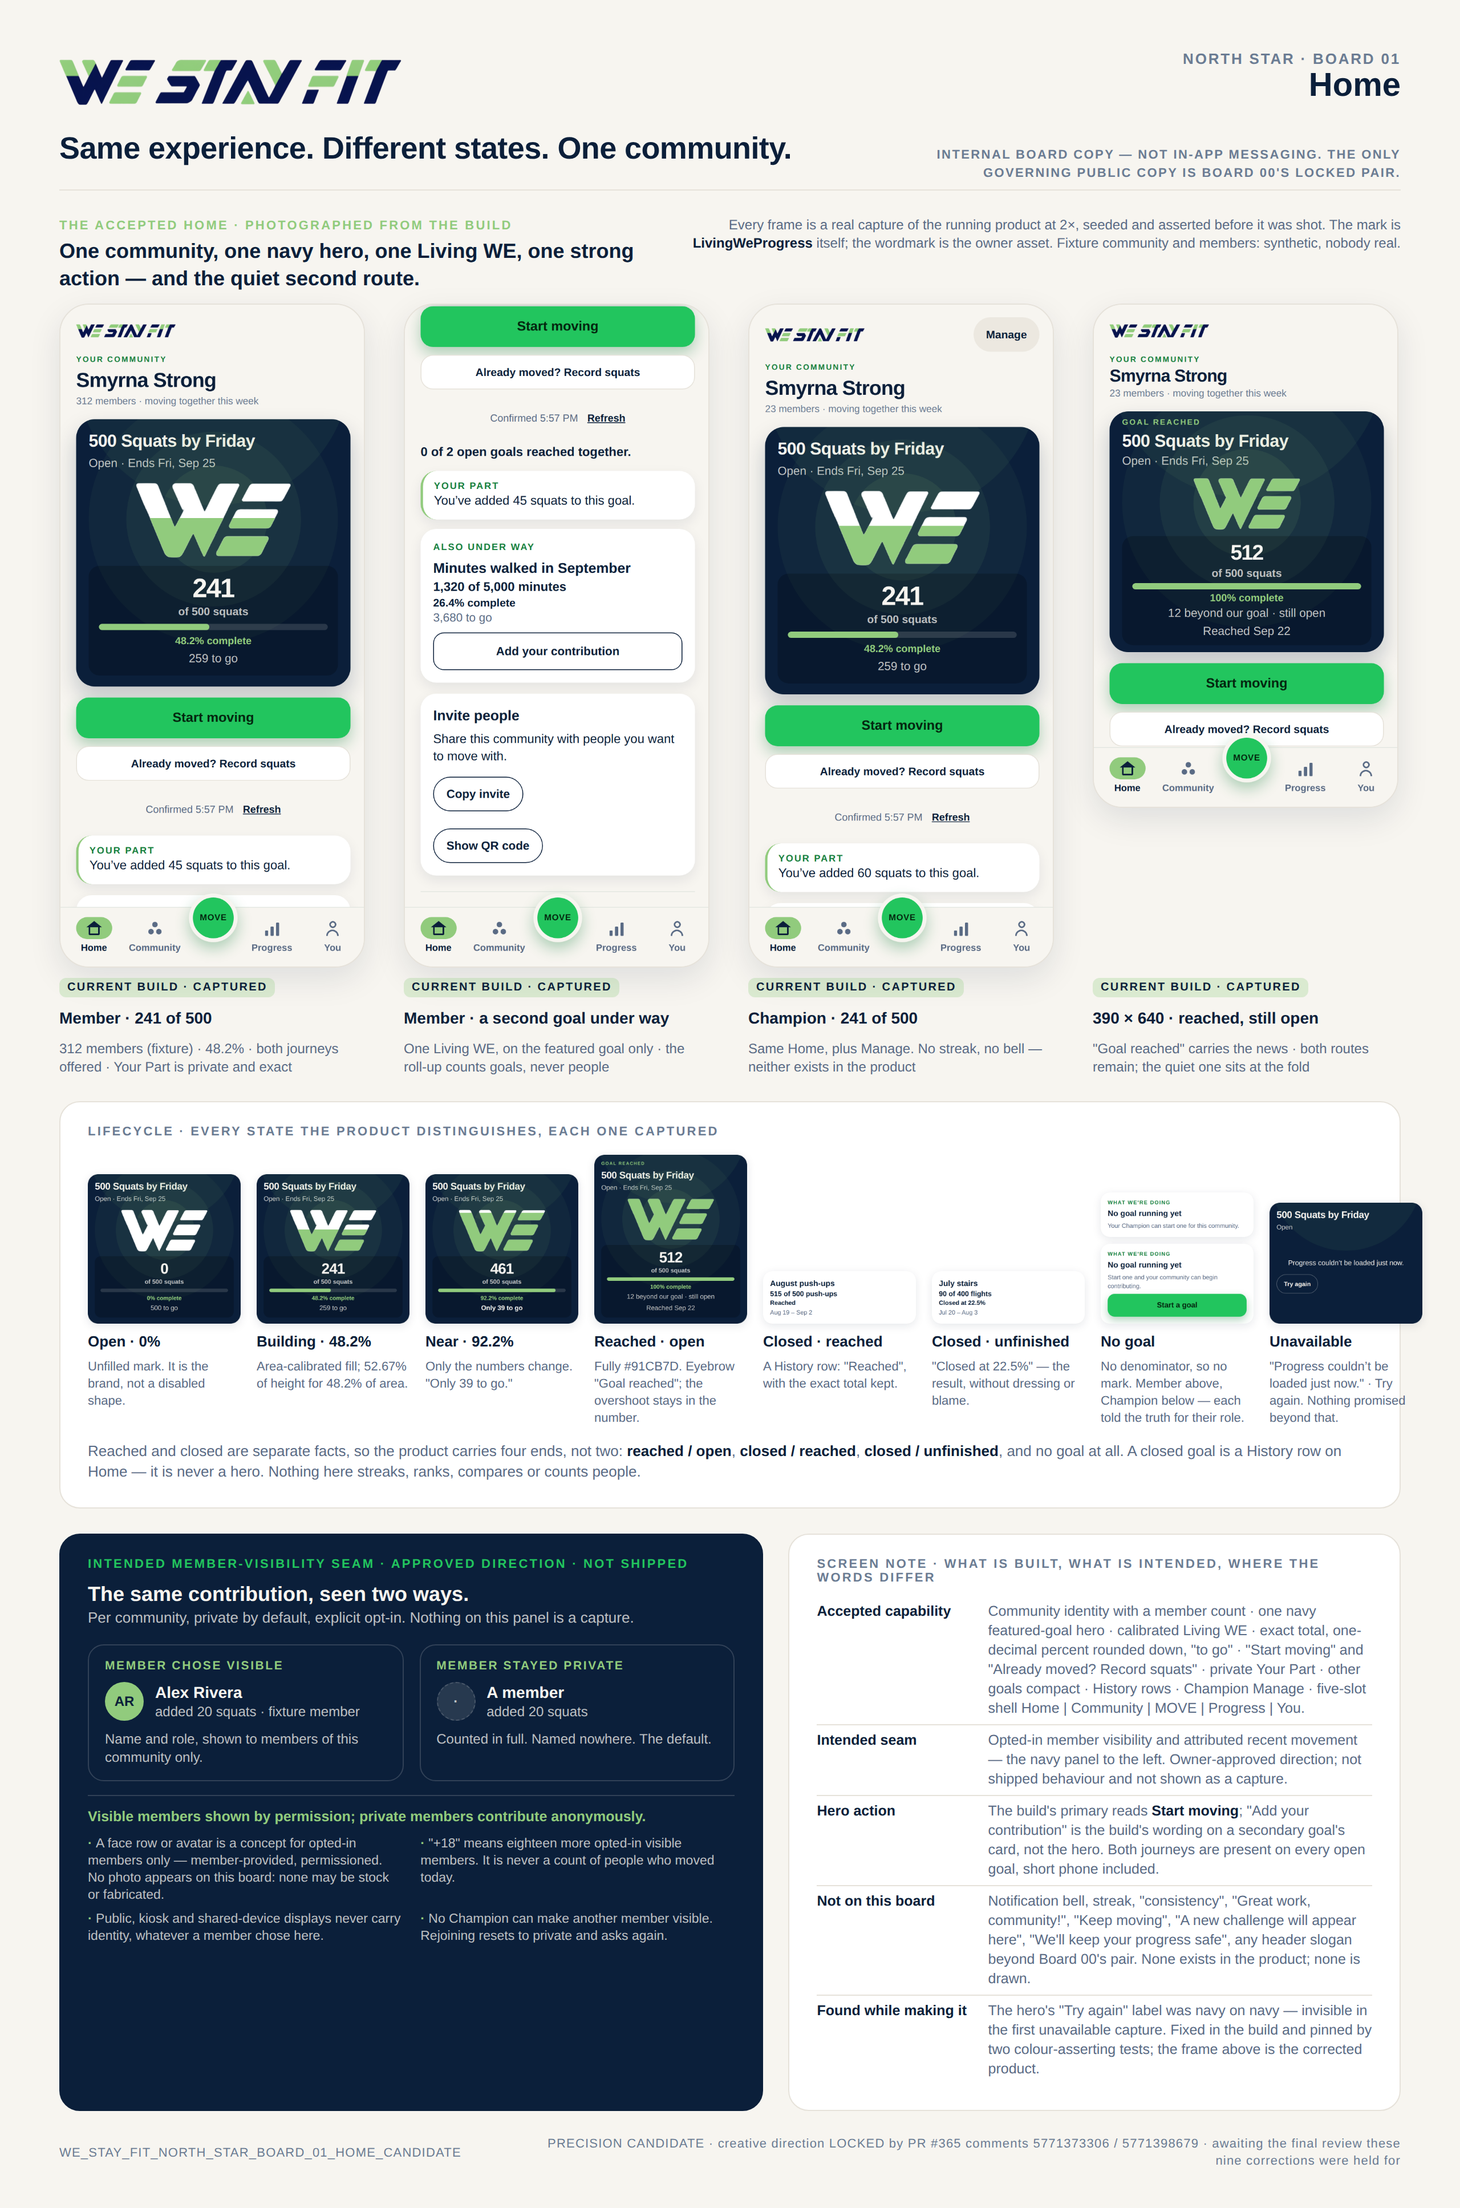
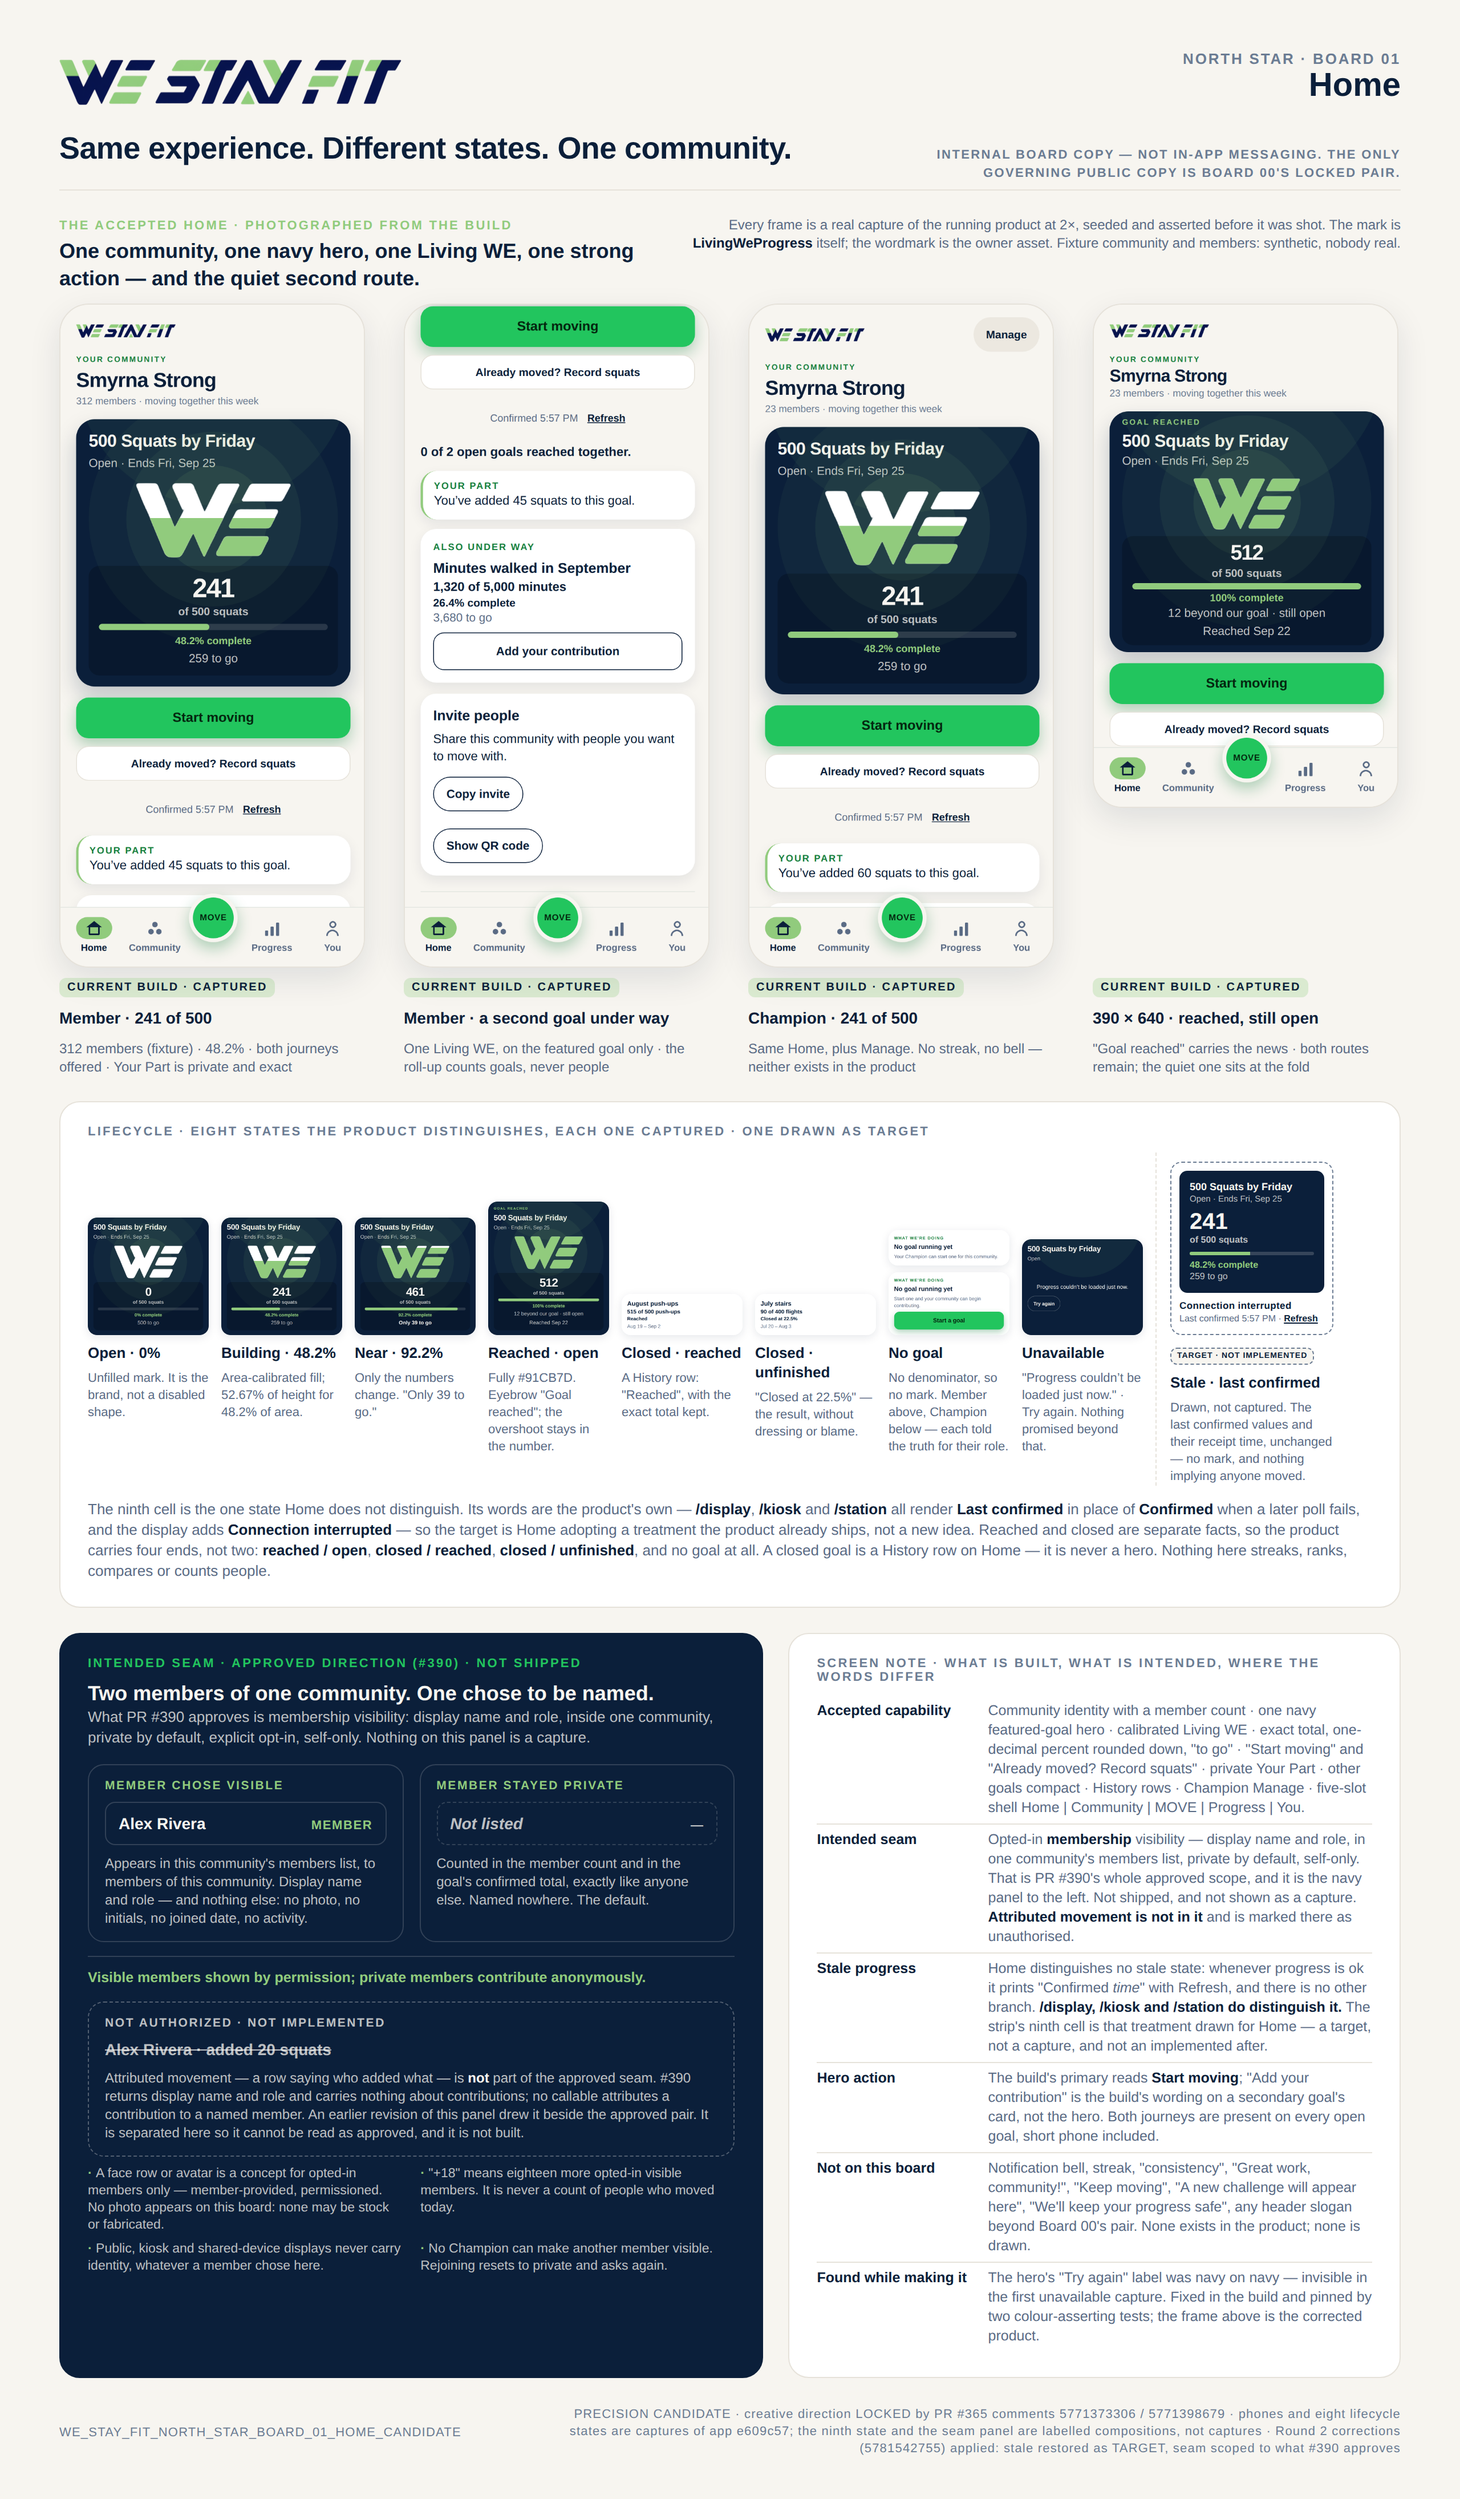
docs(westayfit): Board 01 — the stale state drawn as a target, and the seam scoped to what #390 actually approves
The two corrections the Round 2 source-level check named, and nothing else.
No capture was retaken and no product capture was altered: the four phones
and the eight captured lifecycle states are the same PNGs, still labelled
CURRENT BUILD · CAPTURED.

STALE. The candidate had dropped "stale / last confirmed" on the grounds that
Home does not distinguish it. Current capability cannot erase intended
coverage, so the strip gains a ninth cell — drawn, dashed, tagged TARGET ·
NOT IMPLEMENTED — carrying the building state's own confirmed values
unchanged (241 of 500, 48.2% complete, 259 to go) under "Connection
interrupted · Last confirmed 5:57 PM · Refresh". Nothing on it implies a
movement event; only the screen's standing changed.

It is drawn rather than recorded as an unresolved seam because the product
already ships this treatment, just not on Home: /display, /kiosk and /station
each render `stale ? 'Last confirmed' : 'Confirmed'`, and the display adds
"Connection interrupted". Home's renderFreshness has no such branch. So the
cell invents no vocabulary and no behaviour. It carries no Living WE — a mark
on this board has to be real calibrated LivingWeProgress output, and a
composition has none.

SEAM SEMANTICS. PR #390 returns display name and role for the visible members
of one community and carries nothing about contributions. The panel's
"Alex Rivera · added 20 squats" presented attributed movement as part of that
[…]

diff --git a/docs/design-target/north-star-final/board-01/README.md b/docs/design-target/north-star-final/board-01/README.md
@@ -2,7 +2,7 @@
 
 **Status: PRECISION REVIEW.** Creative direction and the privacy/visibility concept were **accepted** by PR #365 comments [`5771373306`](https://github.com/idevinsimpson/goarrive/pull/365#issuecomment-5771373306) (revision 6) and [`5771398679`](https://github.com/idevinsimpson/goarrive/pull/365#issuecomment-5771398679) (revision 7), which held the board for nine truth/precision corrections and said *"Do not conceptually redesign Board 01 again."* This is the precision candidate those corrections asked for. It takes the `_FINAL` name only when that review clears it.
 
-`WE_STAY_FIT_NORTH_STAR_BOARD_01_HOME_CANDIDATE.png` · 2560×3870 (1280×1935 @2x)
+`WE_STAY_FIT_NORTH_STAR_BOARD_01_HOME_CANDIDATE.png` · 2560×4380 (1280×2190 @2x)
 
 ## How it was made — captured, not drawn
 
@@ -29,10 +29,37 @@ node scripts/westayfit/north-star/render-board.mjs \
 | 3 | Remove "We'll keep your progress safe." | The unavailable frame is the product's: *"Progress couldn't be loaded just now."* and **Try again**. Nothing else. |
 | 4 | Remove "A new challenge will appear here." | The no-goal frames are the product's, member and Champion: *"No goal running yet"* with *"Your Champion can start one for this community."* / *"Start one and your community can begin contributing."* |
 | 5 | Screen note must separate accepted capability from the intended seam | The SCREEN NOTE panel has one row for each, plus a row for where the build's words differ from the lock's. |
-| 6 | Photos are permissioned concept only, never stock or fabricated; +18 = opted-in visible members, not movers | Stated on the seam panel. **No photo appears anywhere on the board.** The visible example uses initials on a fixture member. |
+| 6 | Photos are permissioned concept only, never stock or fabricated; +18 = opted-in visible members, not movers | Stated on the seam panel. **No photo appears anywhere on the board.** The visible example is a name-and-role row with no image of any kind — correction 11 took the initials disc off it too, because #390's own members screen draws neither avatar nor initials. |
 | 7 | Remove "Consistency — Showing up together." | Absent. The Champion frame's quiet context is a member count and the goal's status — both real. |
 | 8 | Primary CTA must keep both journeys, short phone included | Every open-goal frame carries **Start moving** and **Already moved? Record squats**; the 390×640 frame shows the quiet route at the fold. |
 | 9 | "Same experience. Different states. One community." is internal board copy | Rendered as the lead with the label INTERNAL BOARD COPY — NOT IN-APP MESSAGING; Board 00's pair named as the only governing public copy. |
+
+## The two Round 2 corrections
+
+PR #365 comment [`5781542755`](https://github.com/idevinsimpson/goarrive/pull/365#issuecomment-5781542755) is a **source-level check, not visual acceptance.** It named two things and nothing else, and nothing else was changed. No capture was retaken and no product capture was altered: all four phones and all eight captured states are the same PNGs, still labelled **CURRENT BUILD · CAPTURED**.
+
+| # | Held for | On the board |
+| --- | --- | --- |
+| 10 | *"Current capability cannot erase intended North Star coverage."* The README had dropped **stale / last confirmed** because Home does not distinguish it | The strip has a ninth cell, **drawn**: a dashed inset carrying the building state's own confirmed values unchanged — 241 of 500, 48.2% complete, 259 to go — under **Connection interrupted · Last confirmed 5:57 PM · Refresh**, tagged **TARGET · NOT IMPLEMENTED**. Nothing on it implies a movement event; only the screen's standing changed. |
+| 11 | *"#390 authorizes opted-in name+role membership, not attributed movement/photos."* The seam panel's `Alex Rivera · added 20 squats` presented attributed movement as part of the approved seam | The approved pair now shows what #390 returns and only that: a members-list row of **display name + role**, and beside it the private counterpart — **not listed**, counted in full. The named-movement concept is a separate cell below the legend, struck through and labelled **NOT AUTHORIZED · NOT IMPLEMENTED**. The screen note's "Intended seam" row was saying the same untrue thing and is corrected with it. |
+
+### Why a composition, and not an unresolved-seam cell
+
+The direction allowed either: draw the stale state as a labelled target, or refuse to draw it and record an **UNRESOLVED SEAM** cell in the lock's own words. **It is drawn**, because the choice turns on whether drawing it would over-claim — and here it cannot, for a reason that only became visible from the source:
+
+**the product already ships this treatment, just not on Home.** `app/display/[goalId].tsx`, `app/kiosk/[goalId].tsx` and `app/station/[goalId].tsx` each render
+
+```ts
+`${stale ? 'Last confirmed' : 'Confirmed'} ${formatClock(confirmedAt)}`
+```
+
+and the display adds the words **"Connection interrupted"** above it. Its own type says why: *"the confirmed values and their receipt time stay exactly as they were; the screen just stops presenting itself as current."* Home's `renderFreshness` has no such branch — it prints `Confirmed <time>` with **Refresh** whenever progress is `ok`, and nothing else.
+
+So the cell invents no vocabulary and no behaviour. It is Home adopting a treatment three shipped routes already use, which is a target a reviewer can accept or reject on its merits rather than a drawing asking to be believed. An UNRESOLVED SEAM cell would have recorded a gap that is not actually unresolved anywhere but Home.
+
+Two things it deliberately does **not** do. It carries **no Living WE**: the lock's first item requires every mark on this board to be real calibrated `LivingWeProgress` output, and a composition has none, so it draws none. And it is the one cell in the strip with a dashed edge, its own rule, and a tag — the eight beside it are photographs, and the difference has to survive being looked at quickly.
+
+The older TARGET matrix at `docs/design-target/review/page-01-home/TARGET-home-state-matrix.png` is where this state was last reviewed — bottom-right cell, captioned *"Stale · last confirmed / The screen says when it last knew, rather than implying it knows now."* Worth knowing before comparing: **that cell's phone is cut off by the matrix image's own bottom edge at 1688×1200**, so only its header and the top of the hero survive in the file. The caption, and the treatment the product ships on the room surfaces, are what this cell was drawn from. That file is not this worker's to fix and was not touched.
 
 Revision 6's list is covered by the same rows, and additionally: no notification bell and no streak appear (neither exists in the product); the visible-vs-private counterpart example is on the seam panel; the seam legend reads exactly *"Visible members shown by permission; private members contribute anonymously."*
 
@@ -42,7 +69,8 @@ Reported rather than reconciled by hand:
 
 - The lock keeps *"Add your contribution"* as the hero's emotional weight. The accepted build's hero primary is **Start moving**; "Add your contribution" is the build's wording on a *secondary* goal's card. Both journeys are present on every open goal. The board shows the build.
 - The lock's "312 members" fixture is reproduced on the primary phone (312 membership documents); the other fixtures use 23.
-- "Stale · last confirmed" from the older TARGET matrix is not a state the product distinguishes — Home prints *Confirmed <time> · Refresh* under the actions in every confirmed state — so it is not in the strip.
+- **Stale · last confirmed is in the strip, drawn.** Home does not distinguish it: `renderFreshness` prints *Confirmed \<time\>* with **Refresh** whenever progress is `ok`, and there is no other branch. The rest of the product does — `/display`, `/kiosk` and `/station` all swap in *Last confirmed*, and the display adds *Connection interrupted* — so the ninth cell is Home adopting a shipped treatment, tagged **TARGET · NOT IMPLEMENTED** and never counted as an after. The reasoning is in "Why a composition" above.
+- **The seam is membership, not movement.** PR #390 returns `{ displayName, role }` for the visible active members of one community, and carries nothing about contributions; no callable attributes a contribution to a named member. Any board element that showed a named contribution was describing a capability that is neither approved nor built, and it now says so on its face.
 
 ## Found while making it
 
@@ -50,4 +78,13 @@ The first unavailable capture showed an empty outlined pill where **Try again** 
 
 ## Nothing was filled from memory
 
-The seam panel is a labelled composition and says so on its face. Everything else is a capture or a quotation from the lock.
+Two things on this board are compositions, and both say so on their own face: the **seam panel**, and the strip's **ninth cell**. Neither carries a Living WE, because a mark on this board has to be real calibrated `LivingWeProgress` output and a drawing has none. Every other mark on the board — the four phones and the eight lifecycle states — is a capture of app `e609c57`, and every line of copy is either the product's own text or a quotation from the lock. The one fixture name on the board, `Alex Rivera`, was already here; no name, face, quote or reaction was invented for these corrections.
+
+## What changed in the render, and why
+
+Adding a ninth cell and a third seam cell would not fit the old canvas, so two geometry facts changed and nothing else:
+
+- **The strip's cells are 106px (were 134), the drawn ninth is 156px.** Eight cells at 134 plus their gaps came to 1170 inside 1128px of panel, which is why the last caption used to sit flush against the panel border — that overflow is gone. The drawn cell is the wider one because its own words have to be legible; the captures are read through their captions.
+- **The board is 1280×2190 (was 1280×1935).** At 1935 the screen note's last two rows and the footer were clipped off the bottom. Width is the set's constant — every board is 1280 — and height is per board already (Board 00 is 1400, Board 02 is 2470). The new height is the content's exact height: the footer sits on the bottom padding with no dead space under it.
+
+Both were verified by measuring the rendered DOM, not by eye: no element overflows its parent, and `scrollHeight` equals the declared height exactly.
